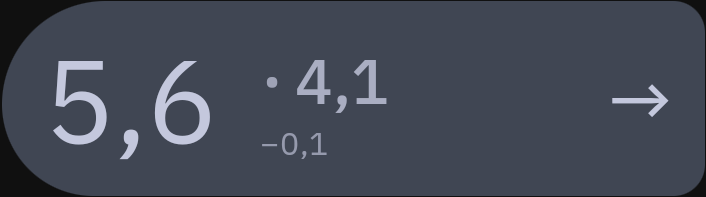
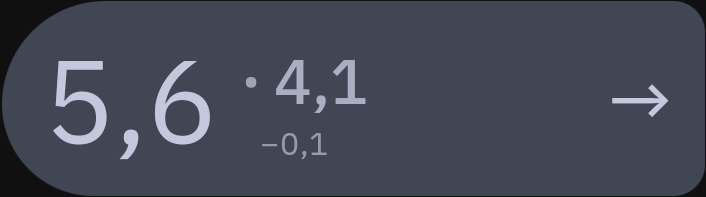
Restore original main-to-dot spacing independently of delta

Changed region(s): [[0.3428, 0.3046, 0.5609, 0.5787]]

diff --git a/Common/src/mobile/java/tk/glucodata/ui/HeroReadingLayout.kt b/Common/src/mobile/java/tk/glucodata/ui/HeroReadingLayout.kt
@@ -70,7 +70,7 @@ internal fun DashboardHeroPrimaryText(
 }
 
 /** The dot and secondary share a baseline above the smaller primary delta.
- * Both support lines start at the same gap used by the single-value delta. */
+ * Preserve the original reading spacing; delta has its own horizontal inset. */
 @Composable
 internal fun DashboardHeroPairText(
     primary: String,
@@ -83,13 +83,14 @@ internal fun DashboardHeroPairText(
     contentColor: Color,
     deltaText: String?,
     deltaStyle: TextStyle,
-    beforeDot: Dp = 16.dp,
+    beforeDot: Dp = 8.dp,
     afterDot: Dp = 4.dp,
+    beforeDelta: Dp = 16.dp,
     modifier: Modifier = Modifier
 ) {
     val hasDelta = !deltaText.isNullOrEmpty()
-    val policy = remember(hasDelta, beforeDot, afterDot) {
-        HeroPairMeasurePolicy(hasDelta, beforeDot, afterDot)
+    val policy = remember(hasDelta, beforeDot, afterDot, beforeDelta) {
+        HeroPairMeasurePolicy(hasDelta, beforeDot, afterDot, beforeDelta)
     }
     Layout(modifier = modifier, measurePolicy = policy, content = {
         AnimatedHeroPrimaryText(primary, primaryStyle, primaryColor)
@@ -101,8 +102,9 @@ internal fun DashboardHeroPairText(
 
 internal class HeroPairMeasurePolicy(
     private val hasDelta: Boolean,
-    private val beforeDot: Dp = 16.dp,
-    private val afterDot: Dp = 4.dp
+    private val beforeDot: Dp = 8.dp,
+    private val afterDot: Dp = 4.dp,
+    private val beforeDelta: Dp = 16.dp
 ) : MeasurePolicy {
     override fun MeasureScope.measure(measurables: List<Measurable>, constraints: Constraints): androidx.compose.ui.layout.MeasureResult {
         val loose = constraints.copy(minWidth = 0, minHeight = 0)
@@ -110,22 +112,23 @@ internal class HeroPairMeasurePolicy(
         val dot = measurables[1].measure(loose)
         val second = measurables[2].measure(loose)
         val supportX = main.width + beforeDot.roundToPx()
+        val deltaX = main.width + beforeDelta.roundToPx()
         val delta = if (hasDelta) measurables[3].measure(loose.copy(
-            maxWidth = (constraints.maxWidth - supportX).coerceAtLeast(0)
+            maxWidth = (constraints.maxWidth - deltaX).coerceAtLeast(0)
         )) else null
         val secondaryX = supportX + dot.width + afterDot.roundToPx()
         val baseline = maxOf(dot[FirstBaseline], second[FirstBaseline])
         val lineHeight = baseline + maxOf(dot.height - dot[FirstBaseline], second.height - second[FirstBaseline])
         val supportHeight = lineHeight + (delta?.height ?: 0)
         val top = ((main.height - supportHeight) / 2).coerceAtLeast(0)
-        val width = constraints.constrainWidth(maxOf(secondaryX + second.width, supportX + (delta?.width ?: 0)))
+        val width = constraints.constrainWidth(maxOf(secondaryX + second.width, if (delta != null) deltaX + delta.width else 0))
         // Supporting text uses the primary line's existing height, including
         // during intrinsic measurement of the hero/sensor card pair.
         return layout(width, main.height) {
             main.placeRelative(0, 0)
             dot.placeRelative(supportX, top + baseline - dot[FirstBaseline])
             second.placeRelative(secondaryX, top + baseline - second[FirstBaseline])
-            delta?.placeRelative(supportX, top + lineHeight)
+            delta?.placeRelative(deltaX, top + lineHeight)
         }
     }
 
@@ -136,15 +139,15 @@ internal class HeroPairMeasurePolicy(
         measurables[0].maxIntrinsicHeight(width)
 
     override fun IntrinsicMeasureScope.minIntrinsicWidth(measurables: List<IntrinsicMeasurable>, height: Int) =
-        measurables[0].minIntrinsicWidth(height) + beforeDot.roundToPx() + maxOf(
-            measurables[1].minIntrinsicWidth(height) + afterDot.roundToPx() + measurables[2].minIntrinsicWidth(height),
-            if (hasDelta) measurables[3].minIntrinsicWidth(height) else 0
+        measurables[0].minIntrinsicWidth(height) + maxOf(
+            beforeDot.roundToPx() + measurables[1].minIntrinsicWidth(height) + afterDot.roundToPx() + measurables[2].minIntrinsicWidth(height),
+            if (hasDelta) beforeDelta.roundToPx() + measurables[3].minIntrinsicWidth(height) else 0
         )
 
     override fun IntrinsicMeasureScope.maxIntrinsicWidth(measurables: List<IntrinsicMeasurable>, height: Int) =
-        measurables[0].maxIntrinsicWidth(height) + beforeDot.roundToPx() + maxOf(
-            measurables[1].maxIntrinsicWidth(height) + afterDot.roundToPx() + measurables[2].maxIntrinsicWidth(height),
-            if (hasDelta) measurables[3].maxIntrinsicWidth(height) else 0
+        measurables[0].maxIntrinsicWidth(height) + maxOf(
+            beforeDot.roundToPx() + measurables[1].maxIntrinsicWidth(height) + afterDot.roundToPx() + measurables[2].maxIntrinsicWidth(height),
+            if (hasDelta) beforeDelta.roundToPx() + measurables[3].maxIntrinsicWidth(height) else 0
         )
 }
 

diff --git a/Common/src/mobile/java/tk/glucodata/ui/DashboardComponents.kt b/Common/src/mobile/java/tk/glucodata/ui/DashboardComponents.kt
@@ -637,7 +637,10 @@ fun DashboardCombinedHeader(
                         with(density) { 4.dp.roundToPx() }
                     val deltaWidth = heroTextMeasurer.measure(delta, style = MaterialTheme.typography.bodySmall.copy(fontFeatureSettings = "tnum"), maxLines = 1).size.width
                     val requiredWidth = heroTextMeasurer.measure(primaryText, style = primaryValueStyle, maxLines = 1).size.width +
-                        with(density) { 16.dp.roundToPx() } + maxOf(supportWidth, deltaWidth)
+                        maxOf(
+                            supportWidth + with(density) { 8.dp.roundToPx() },
+                            deltaWidth + with(density) { 16.dp.roundToPx() }
+                        )
                     val available = heroContentWidthPx - with(density) {
                         (resolvedStartPadding + resolvedEndPadding + resolvedClusterGap + resolvedTrendIconSize).roundToPx()
                     }
@@ -1266,8 +1269,8 @@ private fun DashboardHeroValueCluster(
             maxLines = 1
         ).size.width
         val inlinePairWidthPx = if (!hasThreeValues && pairText != null) {
-            // The delta shares the support column; it never inserts width
-            // between the primary reading and the dot.
+            // Preserve the original 8dp main-to-dot gap independently of
+            // the delta inset; the two lines share width, not spacing.
             val supportWidth = dotWidthPx + with(density) { 4.dp.roundToPx() } +
                 textMeasurer.measure(pairText, style = secondaryInlineStyle, maxLines = 1).size.width
             val deltaWidth = if (!deltaText.isNullOrEmpty()) {
@@ -1277,7 +1280,10 @@ private fun DashboardHeroValueCluster(
                     maxLines = 1
                 ).size.width
             } else 0
-            primaryWidthPx + with(density) { 16.dp.roundToPx() } + maxOf(supportWidth, deltaWidth)
+            primaryWidthPx + maxOf(
+                supportWidth + with(density) { 8.dp.roundToPx() },
+                if (deltaWidth > 0) deltaWidth + with(density) { 16.dp.roundToPx() } else 0
+            )
         } else {
             0
         }
@@ -1336,8 +1342,9 @@ private fun DashboardHeroValueCluster(
                     contentColor = contentColor,
                     deltaText = deltaText,
                     deltaStyle = MaterialTheme.typography.bodySmall.scaleForHero(pairScale),
-                    beforeDot = 16.dp * pairScale,
-                    afterDot = 4.dp * pairScale
+                    beforeDot = 8.dp * pairScale,
+                    afterDot = 4.dp * pairScale,
+                    beforeDelta = 16.dp * pairScale
                 )
             }
 

diff --git a/Common/src/testMobile/java/tk/glucodata/ui/HeroReadingLayoutTests.kt b/Common/src/testMobile/java/tk/glucodata/ui/HeroReadingLayoutTests.kt
@@ -68,8 +68,6 @@ class HeroReadingLayoutTests {
             result.placeChildren()
             val (primary, dot, second, delta) = children
             assertEquals(dot.position.y + dot.baseline, second.position.y + second.baseline)
-            assertEquals(dot.position.x, if (direction == LayoutDirection.Ltr) delta.position.x
-                else delta.position.x + delta.measuredWidth - dot.measuredWidth)
             assertTrue(delta.position.y >= dot.position.y + dot.naturalHeight)
             assertTrue(delta.position.y >= second.position.y + second.naturalHeight)
             assertTrue(delta.position.y + delta.naturalHeight <= primary.naturalHeight)
@@ -90,6 +88,15 @@ class HeroReadingLayoutTests {
             assertEquals(withoutResult.width, withResult.width)
             assertEquals(withoutDelta[1].position.x, withDelta[1].position.x)
             assertEquals(withoutDelta[2].position.x, withDelta[2].position.x)
+            for (children in listOf(withoutDelta, withDelta)) {
+                val (primary, dot, secondary) = children
+                val mainToDot = if (direction == LayoutDirection.Ltr) dot.position.x - primary.measuredWidth
+                    else primary.position.x - (dot.position.x + dot.measuredWidth)
+                val dotToSecondary = if (direction == LayoutDirection.Ltr) secondary.position.x - (dot.position.x + dot.measuredWidth)
+                    else dot.position.x - (secondary.position.x + secondary.measuredWidth)
+                assertEquals(8, mainToDot)
+                assertEquals(4, dotToSecondary)
+            }
         }
     }
 

diff --git a/docs/architecture/hero-delta-layout-validation.md b/docs/architecture/hero-delta-layout-validation.md
@@ -1,10 +1,11 @@
 # Hero delta geometry
 
 A single-value hero centers its regular body-large delta beside the primary,
-with a 16dp gap. A two-value hero uses that same gap for a support column:
-the baseline-aligned dot and secondary occupy its upper line, with the smaller
-body-small delta directly below, aligned to the dot's leading edge. Enabling
-the delta does not insert anything between the primary and dot or move the
+with a 16dp gap. A two-value hero preserves the original reading spacing:
+8dp from primary to dot, then 4dp from dot to secondary. The baseline-aligned
+dot and secondary occupy the upper line, with the smaller body-small delta
+directly below. Its independent 16dp inset does not affect the reading gaps.
+Enabling the delta does not insert anything between the primary and dot or move the
 secondary sideways. Three values and constrained widths use the arrow area.
 The delta cannot increase measured or intrinsic hero height.
 
@@ -29,6 +30,6 @@ complete dashboard configuration.
 
 `HeroReadingLayoutTests` verifies measured and intrinsic height invariance across
 three glyph sizes, dot/secondary baseline alignment, delta placement below the
-support line in LTR/RTL, stable horizontal dot/secondary positions when toggling
-delta, and preservation of the primary's width. All four tests and the mobile
-debug compilation pass.
+support line in LTR/RTL, the original 8dp/4dp reading gaps with delta on and off,
+and preservation of the primary's width. All four tests and the mobile debug
+compilation pass.
